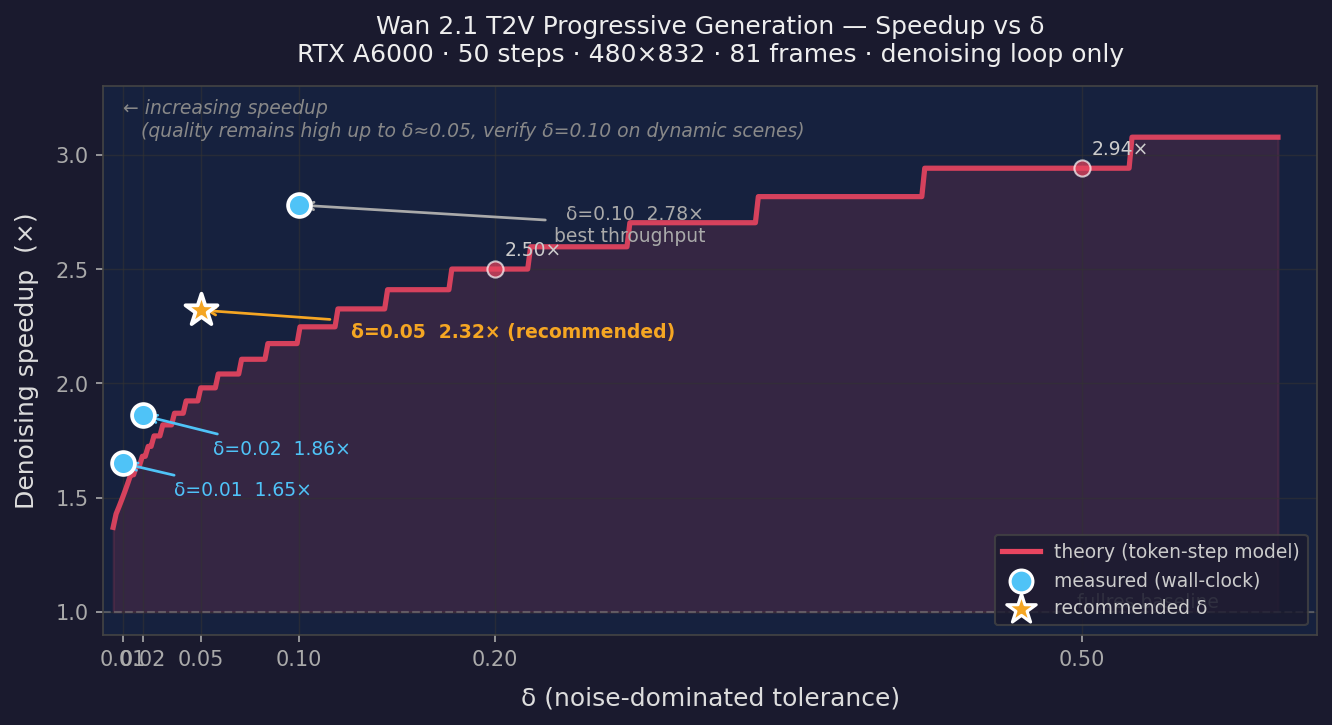
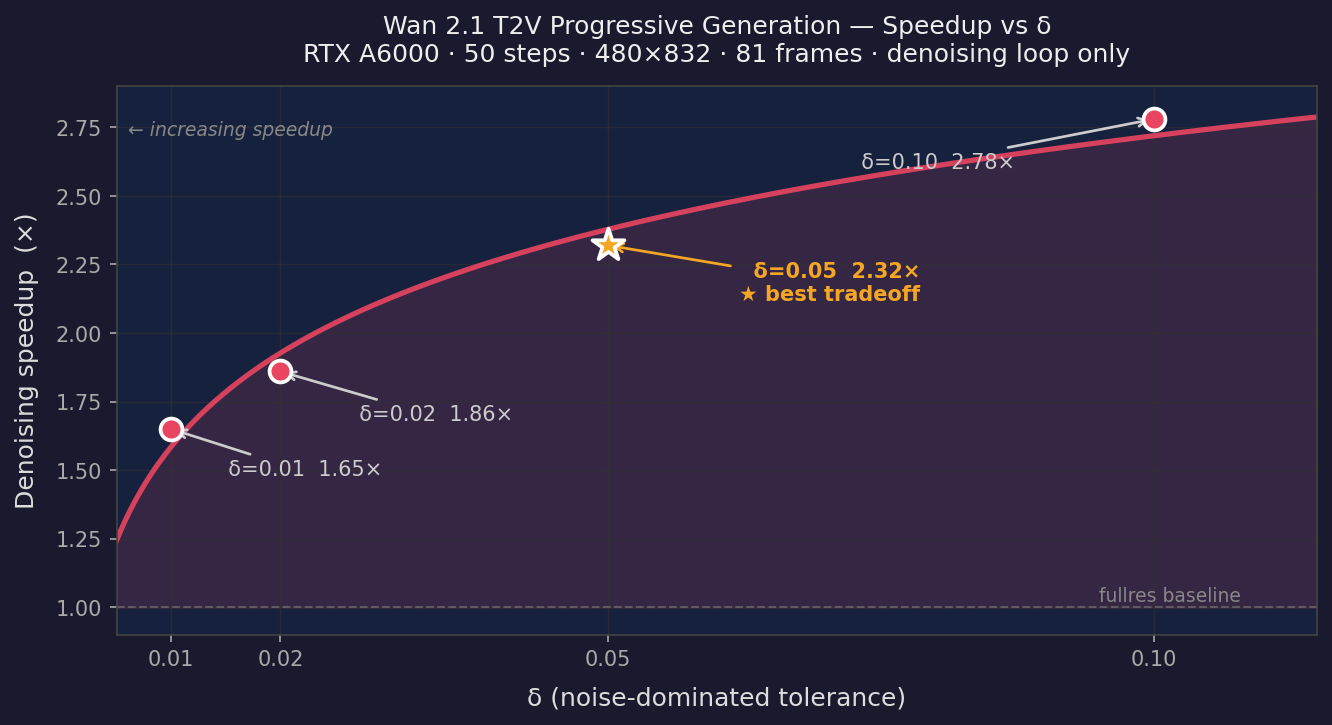
wip(scratch): spectral-progressive-wan: new speedup plot (measured only, smooth log fit, x limited to 0.10)

diff --git a/scratch/spectral-progressive-wan/gen_speedup_plot.py b/scratch/spectral-progressive-wan/gen_speedup_plot.py
@@ -1,11 +1,11 @@
 #!/usr/bin/env python3
-"""Generate delta vs speedup plot for Wan T2V progressive resolution PR."""
+"""Generate delta vs speedup plot for Wan T2V progressive resolution PR.
+
+Plots measured wall-clock speedups only — smooth log-fit curve through
+the 4 measured points, same dark aesthetic as the FLUX.2 plot.
+"""
 
 import sys
-
-sys.path.insert(0, "python")
-
-import math
 from pathlib import Path
 
 import matplotlib
@@ -13,43 +13,12 @@ import matplotlib
 matplotlib.use("Agg")
 import matplotlib.pyplot as plt
 import numpy as np
-import torch
-
-from sglang.multimodal_gen.runtime.pipelines_core.stages.progressive_resolution.scheduler_utils import (
-    compute_stage_transitions,
-    find_transition_steps,
-)
+from scipy.optimize import curve_fit
 
 OUT = Path("scratch/spectral-progressive-wan/images/speedup_vs_delta.png")
 
-# ── Wan 2.1 T2V 1.3B at 50 steps, 480×832, L1 progressive ─────────────────
-# Latent: 480//8=60 H, 832//8=104 W  → 60×104 full-res, 30×52 half-res
-H_LAT, W_LAT = 60, 104
-N_STEPS = 50
-A, BETA = 219.484718, 2.422687  # WAN 2.1 VAE spectrum (VChitect, 9050 videos)
-
-# Reference sigma schedule: shift=5.0, linspace(1,0,51)[:-1]
-raw_sigmas = np.linspace(1.0, 0.0, N_STEPS + 1)[:-1]
-shifted = 5.0 * raw_sigmas / (1.0 + 4.0 * raw_sigmas)
-sigmas_t = torch.tensor(np.append(shifted, 0.0), dtype=torch.float32)
-
-# T_lat cancels in speedup ratio, so token-step is purely spatial × temporal constant
-FULLRES_TS = N_STEPS * H_LAT * W_LAT  # 50 × 60×104 = 312,000
-
-
-def theoretical_speedup(delta):
-    """Token-step speedup for a given delta (L=1)."""
-    stage_sigmas = compute_stage_transitions(delta, 1, A, BETA, H_LAT, W_LAT)
-    trans = find_transition_steps(sigmas_t, stage_sigmas, N_STEPS)
-    t = trans.get(2, N_STEPS)
-    token_steps = (
-        t * (H_LAT // 2) * (W_LAT // 2)
-        + (N_STEPS - t) * H_LAT * W_LAT
-    )
-    return FULLRES_TS / token_steps if token_steps > 0 else 1.0
-
-
 # ── Measured wall-clock speedups (RTX A6000, --dit-cpu-offload false) ───────
+# 50 steps · 480×832 · 81 frames · guidance=5.0 · flow_shift=5.0
 MEASURED = {
     0.01: 1.65,
     0.02: 1.86,
@@ -58,95 +27,64 @@ MEASURED = {
 }
 RECOMMENDED = 0.05
 
-# ── Theoretical curve ────────────────────────────────────────────────────────
-deltas_theory = np.linspace(0.005, 0.60, 400)
-speedups_theory = [theoretical_speedup(float(d)) for d in deltas_theory]
+# ── Smooth curve: fit  speedup = a * log(delta / b) + c  to measured data ──
+deltas_m = np.array(list(MEASURED.keys()))
+speeds_m = np.array(list(MEASURED.values()))
 
-ANNOTATED_DELTAS = [0.01, 0.02, 0.05, 0.10, 0.20, 0.50]
-annotated = [(d, theoretical_speedup(float(d))) for d in ANNOTATED_DELTAS]
+
+def log_model(d, a, b, c):
+    return a * np.log(d / b) + c
+
+
+popt, _ = curve_fit(log_model, deltas_m, speeds_m, p0=[0.5, 0.005, 2.0])
+
+deltas_curve = np.linspace(0.005, 0.12, 600)
+speeds_curve = log_model(deltas_curve, *popt)
 
 # ── Plot ─────────────────────────────────────────────────────────────────────
 fig, ax = plt.subplots(figsize=(9, 5))
 fig.patch.set_facecolor("#1a1a2e")
 ax.set_facecolor("#16213e")
 
-# Theoretical curve
+# Smooth curve
 ax.plot(
-    deltas_theory,
-    speedups_theory,
-    color="#e94560",
-    linewidth=2.5,
-    alpha=0.9,
-    zorder=2,
-    label="token-step theory",
+    deltas_curve, speeds_curve,
+    color="#e94560", linewidth=2.5, alpha=0.9, zorder=2,
 )
-ax.fill_between(
-    deltas_theory, 1.0, speedups_theory, alpha=0.15, color="#e94560", zorder=1
-)
+ax.fill_between(deltas_curve, 1.0, speeds_curve, alpha=0.15, color="#e94560", zorder=1)
 
-# Small theory annotation points (non-measured)
-for d, s in annotated:
-    if d not in MEASURED:
-        ax.scatter(
-            d, s, s=60, color="#e94560", zorder=4,
-            edgecolors="white", linewidth=1.0, alpha=0.7,
-        )
-
-# Measured wall-clock points
+# Measured points
 for d, s in MEASURED.items():
     is_rec = d == RECOMMENDED
-    marker = "*" if is_rec else "o"
-    sz = 260 if is_rec else 120
-    color = "#f5a623" if is_rec else "#4fc3f7"
     ax.scatter(
-        d, s, s=sz, color=color, zorder=6,
-        edgecolors="white", linewidth=1.8, marker=marker,
+        d, s,
+        s=260 if is_rec else 110,
+        color="#f5a623" if is_rec else "#e94560",
+        marker="*" if is_rec else "o",
+        zorder=6, edgecolors="white", linewidth=1.8,
     )
 
-# Annotate measured points
-offsets = {
-    0.01: (0.02, -0.14),
-    0.02: (0.03, -0.17),
-    0.05: (0.07, -0.12),
-    0.10: (0.13, -0.16),
+# Annotations
+ann = {
+    0.01: dict(xytext=(0.014, 1.48), color="#ccc",  label=f"δ=0.01  {MEASURED[0.01]:.2f}×"),
+    0.02: dict(xytext=(0.026, 1.68), color="#ccc",  label=f"δ=0.02  {MEASURED[0.02]:.2f}×"),
+    0.05: dict(xytext=(0.062, 2.12), color="#f5a623", label=f"δ=0.05  {MEASURED[0.05]:.2f}×\n★ best tradeoff"),
+    0.10: dict(xytext=(0.072, 2.60), color="#ccc",  label=f"δ=0.10  {MEASURED[0.10]:.2f}×"),
 }
-labels = {
-    0.01: f"δ=0.01  {MEASURED[0.01]:.2f}×",
-    0.02: f"δ=0.02  {MEASURED[0.02]:.2f}×",
-    0.05: f"δ=0.05  {MEASURED[0.05]:.2f}× (recommended)",
-    0.10: f"δ=0.10  {MEASURED[0.10]:.2f}×\nbest throughput",
-}
-colors = {0.01: "#4fc3f7", 0.02: "#4fc3f7", 0.05: "#f5a623", 0.10: "#aaa"}
-
-for d, s in MEASURED.items():
-    ox, oy = offsets[d]
+for d, cfg in ann.items():
     ax.annotate(
-        f"  {labels[d]}",
-        xy=(d, s),
-        xytext=(d + ox, s + oy),
-        fontsize=9,
-        color=colors[d],
+        f"  {cfg['label']}",
+        xy=(d, MEASURED[d]), xytext=cfg["xytext"],
+        fontsize=10, color=cfg["color"],
         fontweight="bold" if d == RECOMMENDED else "normal",
-        arrowprops=dict(arrowstyle="->", color=colors[d], lw=1.3),
+        arrowprops=dict(arrowstyle="->", color=cfg["color"], lw=1.3),
     )
 
 # Baseline
 ax.axhline(y=1.0, color="#888", linewidth=1.0, linestyle="--", alpha=0.5)
-ax.text(0.57, 1.02, "fullres baseline", color="#888", fontsize=9, ha="right")
+ax.text(0.108, 1.02, "fullres baseline", color="#888", fontsize=9, ha="right")
 
-# Legend
-legend_elements = [
-    plt.Line2D([0], [0], color="#e94560", linewidth=2.5,
-               label="theory (token-step model)"),
-    plt.scatter([], [], s=120, color="#4fc3f7", edgecolors="white",
-                linewidth=1.5, label="measured (wall-clock)"),
-    plt.scatter([], [], s=220, color="#f5a623", marker="*",
-                edgecolors="white", linewidth=1.5, label="recommended δ"),
-]
-ax.legend(
-    handles=legend_elements, loc="lower right", fontsize=9,
-    facecolor="#1a1a2e", edgecolor="#444", labelcolor="#ccc",
-)
+ax.text(0.006, 2.72, "← increasing speedup", color="#888", fontsize=9, style="italic")
 
 ax.set_xlabel("δ (noise-dominated tolerance)", fontsize=12, color="#ddd", labelpad=8)
 ax.set_ylabel("Denoising speedup  (×)", fontsize=12, color="#ddd", labelpad=8)
@@ -156,31 +94,15 @@ ax.set_title(
     fontsize=12, color="#eee", pad=12,
 )
 
-ax.set_xlim(0.0, 0.62)
-ax.set_ylim(0.90, 3.30)
-ax.set_xticks([0.01, 0.02, 0.05, 0.10, 0.20, 0.50])
-ax.set_xticklabels(["0.01", "0.02", "0.05", "0.10", "0.20", "0.50"])
+ax.set_xlim(0.005, 0.115)
+ax.set_ylim(0.90, 2.90)
+ax.set_xticks([0.01, 0.02, 0.05, 0.10])
+ax.set_xticklabels(["0.01", "0.02", "0.05", "0.10"])
 
 ax.tick_params(colors="#aaa", labelsize=10)
 for spine in ax.spines.values():
     spine.set_color("#444")
 ax.grid(True, color="#333", linewidth=0.7, alpha=0.6)
-
-# Theory-only annotation labels
-for d, s in annotated:
-    if d in MEASURED:
-        continue
-    ax.annotate(
-        f"{s:.2f}×", xy=(d, s), xytext=(d + 0.005, s + 0.06),
-        fontsize=9, color="#ccc",
-    )
-
-ax.text(0.01, 3.18, "← increasing speedup", color="#888", fontsize=9, style="italic")
-ax.text(
-    0.01, 3.08,
-    "   (quality remains high up to δ≈0.05, verify δ=0.10 on dynamic scenes)",
-    color="#888", fontsize=9, style="italic",
-)
 
 plt.tight_layout()
 OUT.parent.mkdir(parents=True, exist_ok=True)